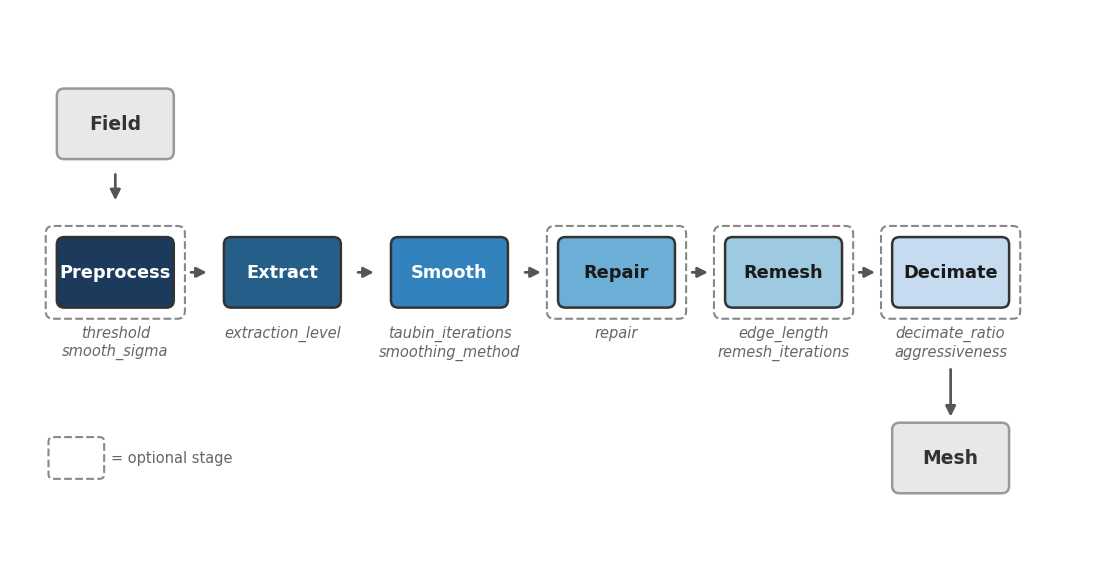
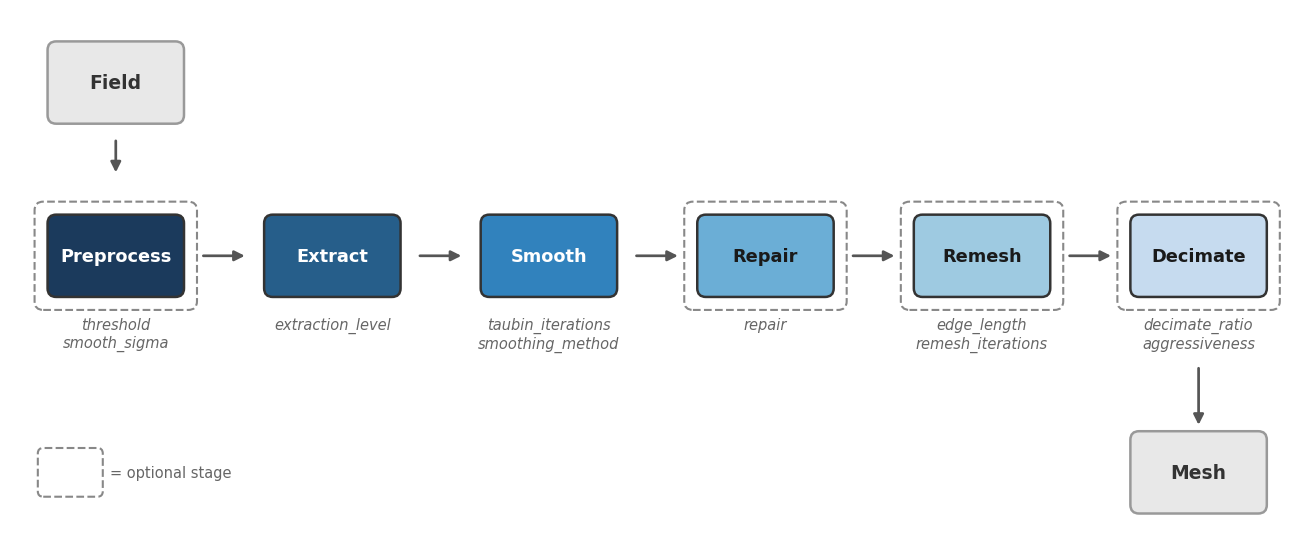
fix: UI tweaks.

diff --git a/website/app/(home)/page.tsx b/website/app/(home)/page.tsx
@@ -1,5 +1,6 @@
 import Link from 'next/link';
 import { codeToHtml } from 'shiki';
+import { shikiThemes } from '@/lib/layout.shared';
 
 const codeExample = `from xeltofab.io import load_field, save_mesh
 from xeltofab.pipeline import process
@@ -37,7 +38,7 @@ const pipelineSteps = [
 export default async function HomePage() {
   const highlighted = await codeToHtml(codeExample, {
     lang: 'python',
-    themes: { light: 'catppuccin-latte', dark: 'github-dark' },
+    themes: shikiThemes,
     defaultColor: false,
   });
   return (
@@ -212,26 +213,6 @@ export default async function HomePage() {
               </div>
             </div>
           </div>
-        </div>
-      </section>
-
-      {/* CTA */}
-      <section className="mx-auto w-full max-w-6xl px-6 py-24">
-        <div className="flex flex-col items-start gap-4 sm:flex-row sm:items-center sm:justify-between">
-          <div>
-            <h2 className="text-2xl font-bold tracking-tight">
-              Ready to process your first field?
-            </h2>
-            <p className="mt-1 text-fd-muted-foreground">
-              Install with pip or uv and run in under a minute.
-            </p>
-          </div>
-          <Link
-            href="/docs/getting-started/installation"
-            className="shrink-0 rounded-md bg-brand-600 px-5 py-2.5 font-[family-name:var(--font-mono)] text-sm font-medium text-white transition-colors hover:bg-brand-700 dark:bg-brand-400 dark:text-brand-900 dark:hover:bg-brand-300"
-          >
-            Installation Guide
-          </Link>
         </div>
       </section>
     </main>

diff --git a/website/app/docs/[[...slug]]/page.tsx b/website/app/docs/[[...slug]]/page.tsx
@@ -4,14 +4,11 @@ import {
   DocsDescription,
   DocsPage,
   DocsTitle,
-  MarkdownCopyButton,
-  ViewOptionsPopover,
 } from 'fumadocs-ui/layouts/docs/page';
 import { notFound } from 'next/navigation';
 import { getMDXComponents } from '@/mdx-components';
 import type { Metadata } from 'next';
 import { createRelativeLink } from 'fumadocs-ui/mdx';
-import { gitConfig } from '@/lib/layout.shared';
 
 export default async function Page(props: PageProps<'/docs/[[...slug]]'>) {
   const params = await props.params;
@@ -23,14 +20,7 @@ export default async function Page(props: PageProps<'/docs/[[...slug]]'>) {
   return (
     <DocsPage toc={page.data.toc} full={page.data.full}>
       <DocsTitle>{page.data.title}</DocsTitle>
-      <DocsDescription className="mb-0">{page.data.description}</DocsDescription>
-      <div className="flex flex-row gap-2 items-center border-b pb-6">
-        <MarkdownCopyButton markdownUrl={`${page.url}.mdx`} />
-        <ViewOptionsPopover
-          markdownUrl={`${page.url}.mdx`}
-          githubUrl={`https://github.com/${gitConfig.user}/${gitConfig.repo}/blob/${gitConfig.branch}/content/docs/${page.path}`}
-        />
-      </div>
+      <DocsDescription>{page.data.description}</DocsDescription>
       <DocsBody>
         <MDX
           components={getMDXComponents({

diff --git a/website/source.config.ts b/website/source.config.ts
@@ -1,5 +1,6 @@
 import { defineConfig, defineDocs } from 'fumadocs-mdx/config';
 import { metaSchema, pageSchema } from 'fumadocs-core/source/schema';
+import { shikiThemes } from './lib/layout.shared';
 
 // You can customise Zod schemas for frontmatter and `meta.json` here
 // see https://fumadocs.dev/docs/mdx/collections
@@ -19,10 +20,7 @@ export const docs = defineDocs({
 export default defineConfig({
   mdxOptions: {
     rehypeCodeOptions: {
-      themes: {
-        light: 'catppuccin-latte',
-        dark: 'github-dark',
-      },
+      themes: shikiThemes,
     },
   },
 });

diff --git a/website/lib/layout.shared.ts b/website/lib/layout.shared.ts
@@ -1,5 +1,10 @@
 import type { BaseLayoutProps } from 'fumadocs-ui/layouts/shared';
 
+export const shikiThemes = {
+  light: 'ayu-light',
+  dark: 'ayu-dark',
+} as const;
+
 export const gitConfig = {
   user: 'xarthurx',
   repo: 'XelToFab',
@@ -12,12 +17,5 @@ export function baseOptions(): BaseLayoutProps {
       title: 'XelToFab',
     },
     githubUrl: `https://github.com/${gitConfig.user}/${gitConfig.repo}`,
-    links: [
-      {
-        text: 'Docs',
-        url: '/docs',
-        active: 'nested-url',
-      },
-    ],
   };
 }

diff --git a/website/app/layout.tsx b/website/app/layout.tsx
@@ -30,7 +30,9 @@ export default function Layout({ children }: LayoutProps<'/'>) {
       suppressHydrationWarning
     >
       <body className="flex flex-col min-h-screen font-[family-name:var(--font-body)]">
-        <RootProvider>{children}</RootProvider>
+        <RootProvider i18n={{ translations: { toc: 'Outline' } }}>
+          {children}
+        </RootProvider>
       </body>
     </html>
   );

diff --git a/scripts/generate_doc_images.py b/scripts/generate_doc_images.py
@@ -91,7 +91,7 @@ def gen_pipeline_diagram() -> None:
     stages = list(STAGE_COLORS.keys())
 
     # Layout constants
-    gap = 1.8        # horizontal gap between stage centers
+    gap = 2.0        # horizontal gap between stage centers
     row_gap = 2.0    # vertical gap between row centers
     box_hw = 0.55    # half-width
     box_hh = 0.3     # half-height
@@ -107,9 +107,9 @@ def gen_pipeline_diagram() -> None:
     field_x, field_y = stage_x[0], row_gap * 0.8
     mesh_x, mesh_y = stage_x[-1], -row_gap
 
-    fig, ax = plt.subplots(figsize=(11, 4.5))
-    ax.set_xlim(-1.0, total_w + 1.3)
-    ax.set_ylim(-row_gap - 0.9, row_gap + 0.7)
+    fig, ax = plt.subplots(figsize=(12, 4.5))
+    ax.set_xlim(-1.0, total_w + 1)
+    ax.set_ylim(-row_gap - 0.5, row_gap + 0.3)
     ax.set_aspect("equal")
     ax.axis("off")
     fig.patch.set_facecolor(BG_COLOR)
@@ -198,7 +198,7 @@ def gen_pipeline_diagram() -> None:
             ha="left", va="center", fontsize=7, color="#666666")
 
     fig.savefig(OUTPUT_DIR / "pipeline-flow.png", dpi=DPI, bbox_inches="tight",
-                facecolor=BG_COLOR, pad_inches=0.15)
+                facecolor=BG_COLOR, pad_inches=0.05)
     plt.close(fig)
 
 

diff --git a/docs/PROGRESS.md b/docs/PROGRESS.md
@@ -231,3 +231,15 @@ Images embedded in MDX pages via `<img>` tags. Supports `--only NAME` for select
 Images output to `website/public/images/getting-started/` and embedded in MDX pages. Installation page skipped (purely textual content).
 
 **Prevention:** When placing centered labels between matplotlib subplots, `fig.text(0.5, 0.5, ...)` in figure coordinates requires visual tuning after `tight_layout()` — the exact center depends on colorbar presence and axis padding. Always generate and inspect before committing.
+
+---
+
+### 2026-03-11 — Duplicated Shiki Theme Config in Website
+
+**Problem:** Changed the code block Shiki theme in `source.config.ts` (fumadocs global config), but the homepage still showed the old theme. This happened twice (first with the original setup, then again when switching to `ayu-light`).
+
+**Root cause:** The homepage (`app/(home)/page.tsx`) uses a standalone `codeToHtml()` call with its own hardcoded `themes: { light: ..., dark: ... }` object, completely independent of the fumadocs `rehypeCodeOptions` in `source.config.ts`. Two sources of truth for the same setting.
+
+**Resolution:** Updated both locations to use `ayu-light`. Files: `website/source.config.ts` (line 23) and `website/app/(home)/page.tsx` (line 40).
+
+**Prevention:** When changing site-wide visual settings (themes, fonts, colors), grep for all occurrences of the current value across the website directory — don't assume a single config file controls everything. Fumadocs' `rehypeCodeOptions` only applies to MDX content, not standalone `codeToHtml()` calls in page components.
